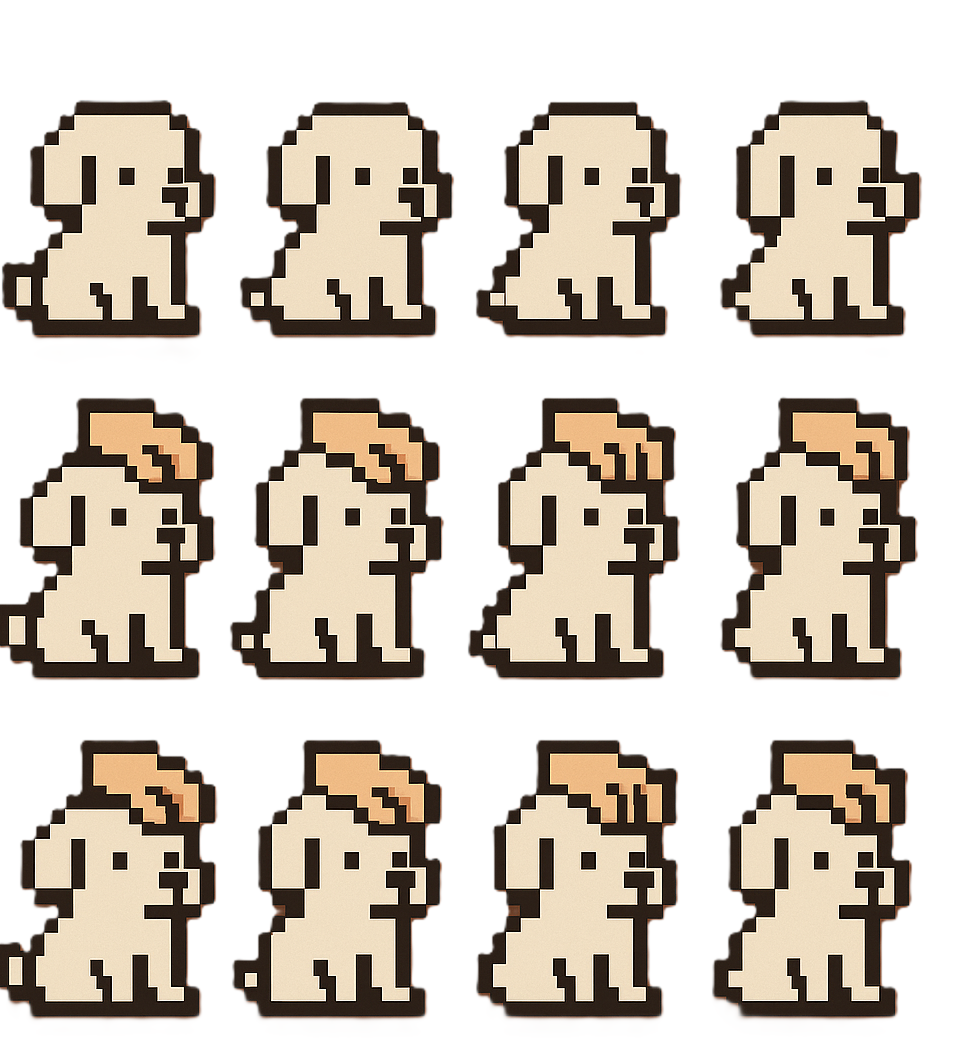
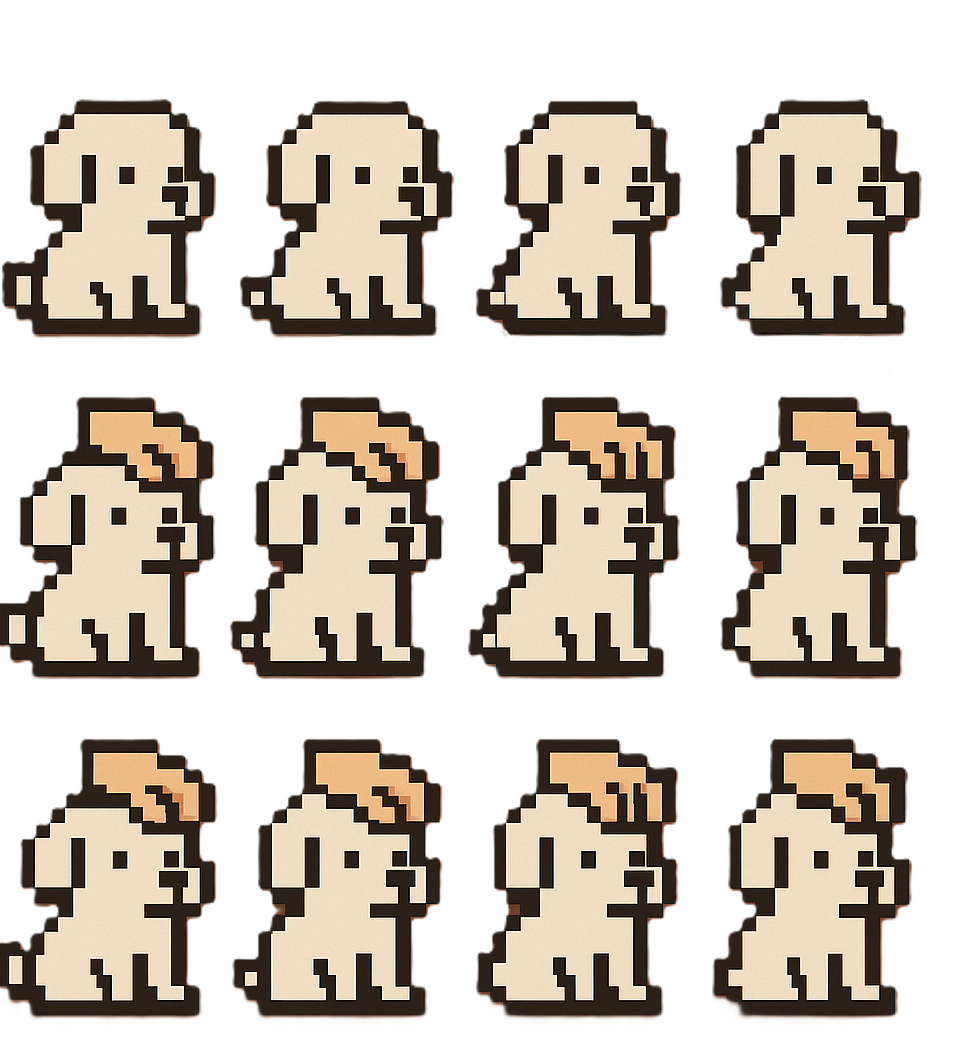
Fixed tick rate issue

diff --git a/script.js b/script.js
@@ -10,12 +10,14 @@ ctx.msImageSmoothingEnabled = false;
 // Input handling
 let enterPressed = false;
 
+const SIZE_SCALE = 1.25; // 25% bigger, tweak to taste
+
 // Game state
 let player = {
     x: 400,
     y: 300,
-    width: 64,
-    height: 128,
+    width: 64 * SIZE_SCALE,
+    height: 128 * SIZE_SCALE,
     speed: 3,
     direction: 'down',
     isMoving: false,
@@ -39,8 +41,8 @@ const decorativeObjects = [
     {
         x: 70,
         y: 360,
-        width: 60,
-        height: 100,
+        width: 60 * SIZE_SCALE,
+        height: 100 * SIZE_SCALE,
         type: 'flower',
         sprite: 'flower'
     }
@@ -77,6 +79,10 @@ let spritesLoaded = {
     dog: false,
     gramophone: false
 };
+
+// Timing
+let lastTime = 0;
+const BASE_FRAME_TIME = 1000 / 60; // treat 60 FPS as "normal"
 
 function loadSprites() {
     // Load player sprite
@@ -196,8 +202,8 @@ const npcs = [
     {
         x: 31,
         y: 144,
-        width: 64,
-        height: 128,
+        width: 64 * SIZE_SCALE,
+        height: 128 * SIZE_SCALE,
         type: 'projects',
         name: 'Projects',
         sprite: 'bob',
@@ -213,8 +219,8 @@ const npcs = [
     {
         x: 637,
         y: 147,
-        width: 64,
-        height: 128,
+        width: 64 * SIZE_SCALE,
+        height: 128 * SIZE_SCALE,
         type: 'about',
         name: 'About',
         sprite: 'alex',
@@ -228,10 +234,10 @@ const npcs = [
         turnBackDelay: 2000
     },
     {
-        x: 120,
-        y: 320,
-        width: 64,
-        height: 128,
+        x: 135,
+        y: 312,
+        width: 64 * SIZE_SCALE,
+        height: 128 * SIZE_SCALE,
         type: 'contact',
         name: 'Contacts',
         sprite: 'amelia',
@@ -249,8 +255,8 @@ const npcs = [
 const dog = {
     x: 300, 
     y: 120,
-    width: 48,
-    height: 64,
+    width: 48 * SIZE_SCALE,
+    height: 64 * SIZE_SCALE,
     state: 'idle_sitting', // 'idle_sitting' or 'being_petted'
     animationFrame: 0,
     animationSpeed: 0.1,
@@ -260,10 +266,10 @@ const dog = {
 };
 
 const cat = {
-    x: 370,
-    y: 135,
-    width: 64,
-    height: 48,
+    x: 360,
+    y: 140,
+    width: 64 * SIZE_SCALE,
+    height: 48 * SIZE_SCALE,
     state: 'idle',
     animationFrame: 0,
     animationSpeed: 0.08,
@@ -273,10 +279,10 @@ const cat = {
 };
 
 const gramophone = {
-    x: 150, 
+    x: 125, 
     y: 100,
-    width: 64,
-    height: 100,
+    width: 64 * SIZE_SCALE,
+    height: 100 * SIZE_SCALE,
     state: 'idle', // 'idle' or 'playing'
     animationFrame: 0,
     animationSpeed: 0.1,
@@ -515,7 +521,8 @@ function drawNPCSpriteFrame(x, y, spriteKey, animationFrame, direction) {
         sourceX, sourceY,
         spriteConfig.frameWidth, spriteConfig.frameHeight,
         Math.floor(x), Math.floor(y),
-        64, 128
+        64 * SIZE_SCALE,
+        128 * SIZE_SCALE
     );
 }
 
@@ -533,7 +540,8 @@ function drawDogSpriteFrame(x, y, state, animationFrame) {
         sourceX, sourceY,
         230, 340, // Source dimensions 
         Math.floor(x), Math.floor(y),
-        48, 64 // Destination dimensions
+        dog.width,
+        dog.height
     );
 }
 
@@ -566,7 +574,8 @@ function drawCatSpriteFrame(x, y, state, animationFrame) {
         sourceX, sourceY,
         425, 325,
         Math.floor(x), Math.floor(y),
-        64, 48
+        cat.width,
+        cat.height
     );
 }
 
@@ -584,13 +593,13 @@ function drawGramophoneSpriteFrame(x, y, state, animationFrame) {
         sourceX, sourceY,
         330, 509, // Source dimensions 
         Math.floor(x), Math.floor(y),
-        64, 100 // Destination dimensions
+        64* SIZE_SCALE, 100* SIZE_SCALE // Destination dimensions
     );
 }
 
-function updatePlayerAnimation() {
+function updatePlayerAnimation(frameScale) {
     if (player.isMoving) {
-        player.animationTimer += player.animationSpeed;
+        player.animationTimer += player.animationSpeed * frameScale;
         if (player.animationTimer >= 1) {
             player.animationFrame = (player.animationFrame + 1);
             player.animationTimer = 0;
@@ -601,18 +610,16 @@ function updatePlayerAnimation() {
     }
 }
 
-function updateNPCAnimations() {
+function updateNPCAnimations(frameScale, delta) {
     npcs.forEach(npc => {
-        // Update animation frame
-        npc.animationTimer += npc.animationSpeed;
+        npc.animationTimer += npc.animationSpeed * frameScale;
         if (npc.animationTimer >= 1) {
             npc.animationFrame = (npc.animationFrame + 1);
             npc.animationTimer = 0;
         }
         
-        // Handle turning back to default direction
         if (npc.currentDirection !== npc.defaultDirection && npc.turnBackTimer > 0) {
-            npc.turnBackTimer -= 16; // Approximate frame time
+            npc.turnBackTimer -= delta; // real ms now
             if (npc.turnBackTimer <= 0) {
                 npc.currentDirection = npc.defaultDirection;
             }
@@ -644,7 +651,7 @@ function closeModal() {
     document.getElementById('modal').style.display = 'none';
 }
 
-function update() {
+function update(frameScale, delta) {
     // Track if player is moving
     player.isMoving = false;
     
@@ -653,7 +660,7 @@ function update() {
     let newY = player.y;
     
     if (keys['w'] || keys['arrowup']) {
-        newY -= player.speed;
+        newY -= player.speed * frameScale;
         player.direction = 'up';
         // Check collision before moving
         if (!wouldCollideWithObjects(player.x, newY)) {
@@ -662,7 +669,7 @@ function update() {
         }
     }
     if (keys['s'] || keys['arrowdown']) {
-        newY += player.speed;
+        newY += player.speed * frameScale;
         player.direction = 'down';
         // Check collision before moving
         if (!wouldCollideWithObjects(player.x, newY)) {
@@ -671,7 +678,7 @@ function update() {
         }
     }
     if (keys['a'] || keys['arrowleft']) {
-        newX -= player.speed;
+        newX -= player.speed * frameScale;
         player.direction = 'left';
         // Check collision before moving
         if (!wouldCollideWithObjects(newX, player.y)) {
@@ -680,7 +687,7 @@ function update() {
         }
     }
     if (keys['d'] || keys['arrowright']) {
-        newX += player.speed;
+        newX += player.speed * frameScale;
         player.direction = 'right';
         // Check collision before moving
         if (!wouldCollideWithObjects(newX, player.y)) {
@@ -703,11 +710,11 @@ function update() {
     if (player.y > wallSpace.bottomBoundary - player.height) player.y = wallSpace.bottomBoundary - player.height;
     
     // Update animations
-    updatePlayerAnimation();
-    updateNPCAnimations();
+    updatePlayerAnimation(frameScale);
+    updateNPCAnimations(frameScale, delta);
     
     // Update dog animation
-    dog.animationTimer += dog.animationSpeed;
+    dog.animationTimer += dog.animationSpeed * frameScale;
     if (dog.animationTimer >= 1) {
         dog.animationFrame = (dog.animationFrame + 1);
         dog.animationTimer = 0;
@@ -715,7 +722,7 @@ function update() {
 
     // Handle dog petting state
     if (dog.state === 'being_petted') {
-        dog.pettingTimer -= 16; // Approximate frame time
+        dog.pettingTimer -= delta ; // Approximate frame time
         if (dog.pettingTimer <= 0) {
             dog.state = 'idle_sitting';
             dog.animationFrame = 0;
@@ -723,7 +730,7 @@ function update() {
     }
 
     // Update cat animation
-    cat.animationTimer += cat.animationSpeed;
+    cat.animationTimer += cat.animationSpeed * frameScale;
     if (cat.animationTimer >= 1) {
         cat.animationFrame = (cat.animationFrame + 1);
         cat.animationTimer = 0;
@@ -731,7 +738,7 @@ function update() {
 
     // Handle cat petting state
     if (cat.state === 'being_petted') {
-        cat.pettingTimer -= 16;
+        cat.pettingTimer -= delta;
         if (cat.pettingTimer <= 0) {
             cat.state = 'idle';
             cat.animationFrame = 0;
@@ -739,7 +746,7 @@ function update() {
     }
 
     // Update gramophone animation
-    gramophone.animationTimer += gramophone.animationSpeed;
+    gramophone.animationTimer += gramophone.animationSpeed * frameScale;
     if (gramophone.animationTimer >= 1) {
         gramophone.animationFrame = (gramophone.animationFrame + 1);
         gramophone.animationTimer = 0;
@@ -987,14 +994,21 @@ function draw() {
     drawableObjects.forEach(obj => obj.draw());
 }
 
-function gameLoop() {
-    update();
+function gameLoop(timestamp) {
+    if (!lastTime) lastTime = timestamp;
+
+    const delta = timestamp - lastTime;          // ms since last frame
+    lastTime = timestamp;
+
+    const frameScale = delta / BASE_FRAME_TIME;  // 1.0 at 60 FPS
+
+    update(frameScale, delta);
     draw();
     requestAnimationFrame(gameLoop);
 }
 
 // Start the game
-gameLoop();
+requestAnimationFrame(gameLoop);
 
 // Prevent default arrow key behavior
 window.addEventListener('keydown', (e) => {
